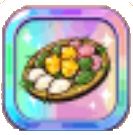
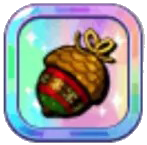
squirrel

diff --git a/squirrel.js b/squirrel.js
@@ -40,7 +40,7 @@ function getSquirrelRewardImg(id){
         case SQUIRREL_REWARD.Treasure3:
             return "img/squirrel/3.png"
         case SQUIRREL_REWARD.Treasure4:
-            return "img/tr/46.png"
+            return "img/tr/36.png"
     }
 }
 function getSquirrelRewardName(id){
@@ -54,13 +54,13 @@ function getSquirrelRewardName(id){
         case SQUIRREL_REWARD.Ticket:
             return "최고급 보물뽑기권"
         case SQUIRREL_REWARD.Treasure1:
-            return "다람쥐의 잘 익은 전통 곶감"
+            return "다람쥐 가루솔솔 솔방울"
         case SQUIRREL_REWARD.Treasure2:
-            return "다람쥐의 둥실둥실 방패 연"
+            return "다람쥐의 마시멜로 산타 초코케이크"
         case SQUIRREL_REWARD.Treasure3:
-            return "다람쥐의 도토리 깨송편"
+            return "다람쥐의 도토리 오너먼트"
         case SQUIRREL_REWARD.Treasure4:
-            return "다람쥐의 크리스탈 노리개"
+            return "다람쥐의 크리스탈 별 오너먼트"
     }
 }
 function addSquirrelState(rewards){
